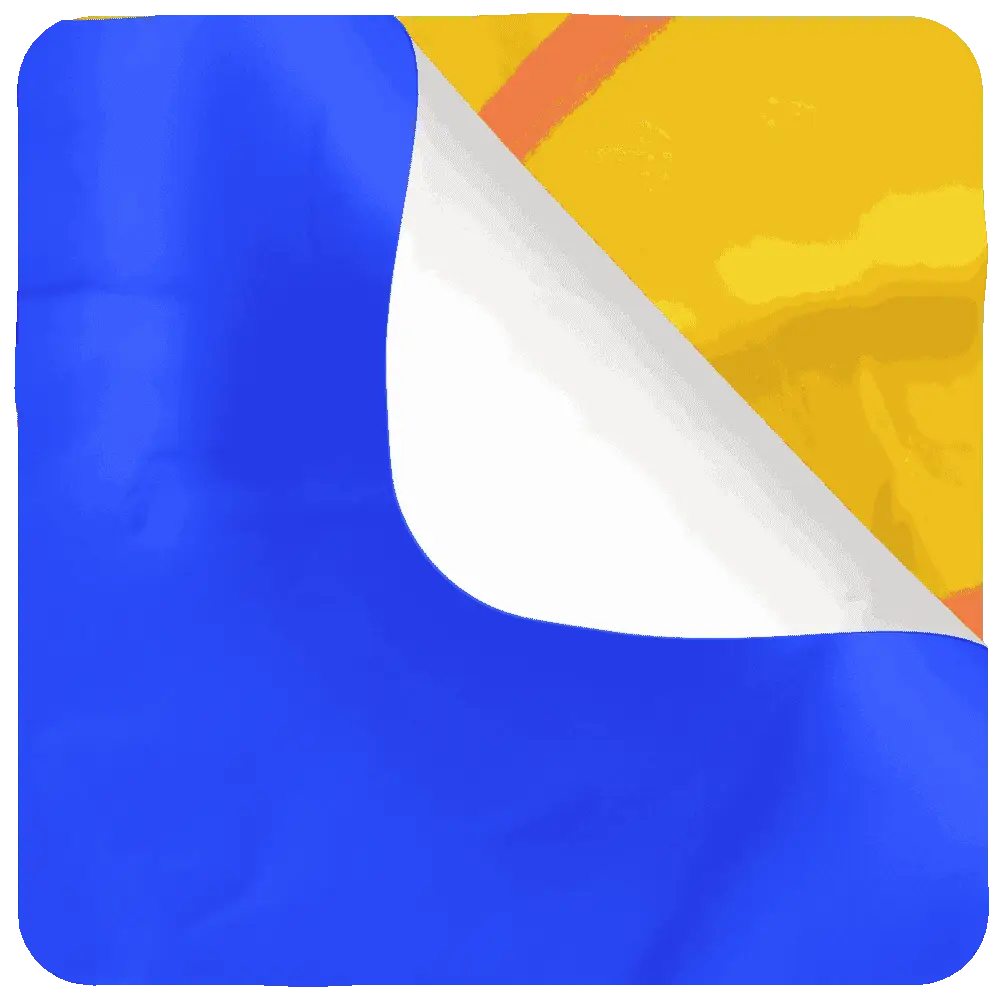
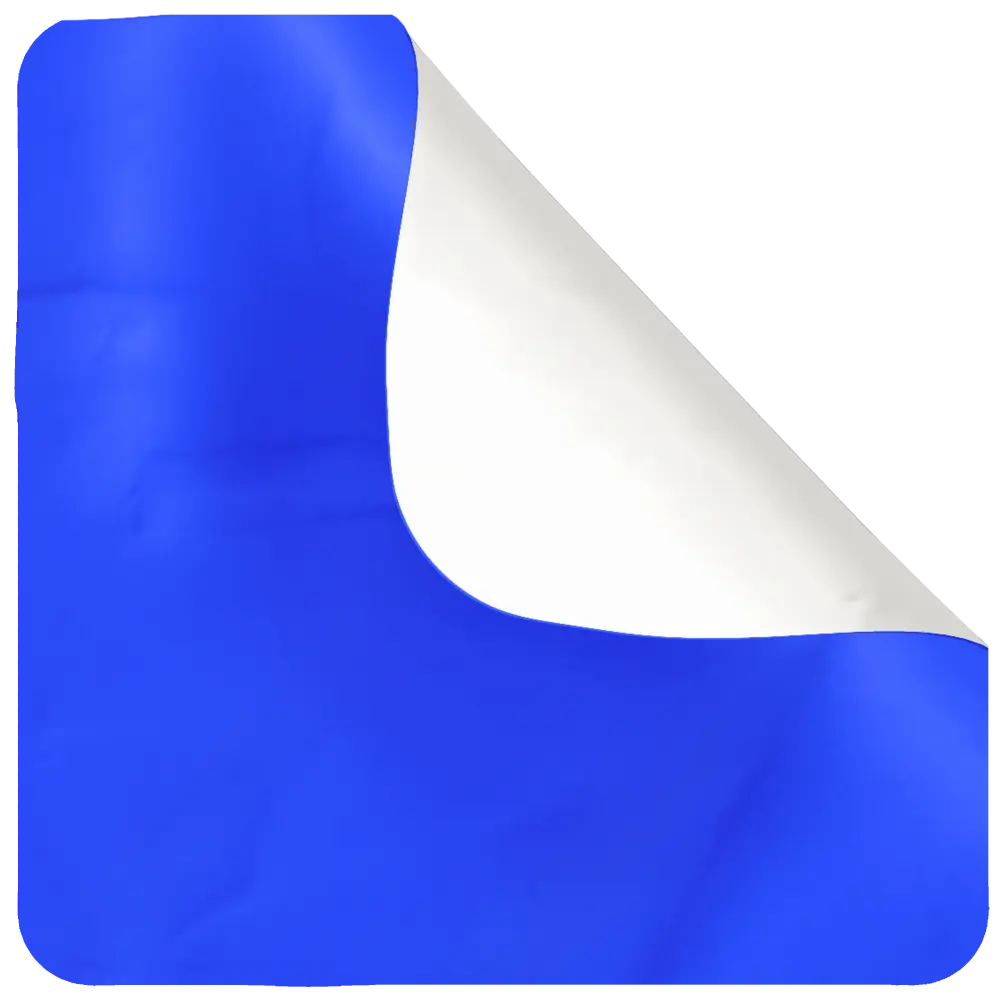
fixed navigation email to contact

Changed region(s): [[0.403, 0.0, 0.992, 0.651], [0.093, 0.0, 0.155, 0.031]]

diff --git a/src/app/main-content/skills/sticker/sticker.component.scss b/src/app/main-content/skills/sticker/sticker.component.scss
@@ -5,7 +5,7 @@
   cursor: pointer;
 }
 
-.interest-skills{
+.interest-skills {
   display: flex;
   gap: 16px;
 }
@@ -31,21 +31,23 @@
   inset: 0;
   background-size: cover;
   background-repeat: no-repeat;
-  will-change: clip-path, opacity, filter;
+  will-change: clip-path, opacity;
+  backface-visibility: hidden;
+  transform: translateZ(0); /* Hardware-Beschleunigung */
 }
 
 #sticker-1 {
-    z-index: 3;
-    transform-origin: top right;
+  z-index: 3;
+  transform-origin: top right;
 }
 
 #sticker-2 {
-    z-index: 1;
-    img {
-        width: 200px;
-        height: 200px;
-        display: block;
-    }
+  z-index: 1;
+  img {
+    width: 200px;
+    height: 200px;
+    display: block;
+  }
 }
 
 .layer-default {
@@ -54,25 +56,26 @@
   clip-path: polygon(0 0, 100% 0, 100% 0, 100% 100%, 0 100%);
 }
 
-// .layer-transition {
-//   background-image: url("/assets/img/03_stickers/01_Skills - Peel off/Transition.webp");
-//   opacity: 0;
-//   clip-path: polygon(0 0, 100% 0, 100% 0, 100% 100%, 0 100%);
-// }
+.layer-transition {
+  background-image: url("/assets/img/03_stickers/01_Skills - Peel off/Transition.webp");
+  opacity: 0;
+  clip-path: polygon(0 0, 100% 0, 100% 0, 100% 100%, 0 100%);
+  pointer-events: none;
+}
 
-.sticker-default{
-    img {
-        width: 51px;
-        height: 40px;
-    }
-    p {
-        font-size: 40px;
-        font-weight: 400;
-        font-family: 'Kalam';
-        color: $white;
-        margin: 0;
-        line-height: 40px;
-    }
+.sticker-default {
+  img {
+    width: 51px;
+    height: 40px;
+  }
+  p {
+    font-size: 40px;
+    font-weight: 400;
+    font-family: 'Kalam';
+    color: $white;
+    margin: 0;
+    line-height: 40px;
+  }
 }
 
 .sticker-final p {
@@ -86,59 +89,98 @@
 }
 
 /* --- PEEL --- */
-
-/* Default-sticker start peel */
 .sticker-container.is-peeling .layer-default {
-  animation: peelOut 200ms cubic-bezier(.2,.9,.2,1) forwards;
+  animation: peelOutDefault 400ms ease-out forwards;
 }
 
-/* done: Sticker-1 disappears */
+.sticker-container.is-peeling .layer-transition {
+  animation: peelOutTransition 400ms ease-out forwards;
+}
+
 .sticker-container.is-peeled #sticker-1 {
   pointer-events: none;
   opacity: 0;
 }
 
-/* ------------------ UNPEEL ------------------ */
-
-/* Default-sticker  comes back*/
+/* --- UNPEEL --- */
 .sticker-container.is-unpeeling .layer-default {
-  animation: peelIn 600ms cubic-bezier(.2,.9,.2,1) forwards;
+  animation: peelInDefault 400ms ease-out forwards;
 }
 
+.sticker-container.is-unpeeling .layer-transition {
+  animation: peelInTransition 400ms ease-out forwards;
+}
 
-@keyframes peelOut {
+/* Peel Out Animations */
+@keyframes peelOutDefault {
   0% {
     opacity: 1;
     clip-path: polygon(0 0, 100% 0, 100% 0, 100% 100%, 0 100%);
-    filter: none;
+  }
+  30% {
+    opacity: 0.5;
+    clip-path: polygon(0 0, 35% 0, 100% 65%, 100% 100%, 0 100%);
   }
   40% {
-    opacity: 1;
-    clip-path: polygon(0 0, 50% 0, 100% 50%, 100% 100%, 0 100%);
-    background-image: url("/assets/img/03_stickers/01_Skills - Peel off/Transition.webp");
+    opacity: 0;
+    clip-path: polygon(0 0, 60% 0, 100% 40%, 100% 100%, 0 100%);
   }
   100% {
     opacity: 0;
     clip-path: polygon(0 0, 0 0, 100% 100%, 100% 100%, 0 100%);
-    // clip-path: polygon(0 100%, 0 100%, 0 100%, 0 100%, 0 100%);
-    filter: blur(0.6px);
   }
 }
 
-@keyframes peelIn {
+@keyframes peelOutTransition {
   0% {
     opacity: 0;
-    clip-path: polygon(0 0, 0 0, 100% 100%, 100% 100%, 0 100%);
-    filter: blur(0.6px);
+    clip-path: polygon(0 0, 100% 0, 100% 0, 100% 100%, 0 100%);
   }
-  45% {
-    opacity: 0.9;
-    clip-path: polygon(0 0, 70% 0, 100% 40%, 100% 100%, 0 100%);
-    filter: blur(0.2px);
+  30% {
+    opacity: 0.5;
+    clip-path: polygon(0 0, 60% 0, 100% 40%, 100% 100%, 0 100%);
+  }
+  40% {
+    opacity: 0.2;
+    clip-path: polygon(0 0, 60% 0, 100% 40%, 100% 100%, 0 100%);
+  }
+  50% {
+    opacity: 0.1;
+    clip-path: polygon(0 0, 30% 0, 100% 70%, 100% 100%, 0 100%);
   }
   100% {
-    opacity: 1;
+    opacity: 0;
+    clip-path: polygon(0 0, 0 0, 100% 100%, 100% 100%, 0 100%);
+  }
+}
+
+/* Peel In Animations */
+@keyframes peelInDefault {
+  0% {
+    clip-path: polygon(0 0, 0 0, 100% 100%, 100% 100%, 0 100%);
+  }
+  55% {
+    clip-path: polygon(0 0, 55% 0, 100% 45%, 100% 100%, 0 100%);
+  }
+  75% {
+    clip-path: polygon(0 0, 85% 0, 100% 15%, 100% 100%, 0 100%);
+  }
+  100% {
     clip-path: polygon(0 0, 100% 0, 100% 0, 100% 100%, 0 100%);
-    filter: none;
+  }
+}
+
+@keyframes peelInTransition {
+  0% {
+    clip-path: polygon(0 0, 0 0, 100% 100%, 100% 100%, 0 100%);
+  }
+  55% {
+    clip-path: polygon(0 0, 55% 0, 100% 45%, 100% 100%, 0 100%);
+  }
+  75% {
+    clip-path: polygon(0 0, 85% 0, 100% 15%, 100% 100%, 0 100%);
+  }
+  100% {
+    clip-path: polygon(0 0, 100% 0, 100% 0, 100% 100%, 0 100%);
   }
 }

diff --git a/src/app/shared/footer/footer-links/footer-links.component.ts b/src/app/shared/footer/footer-links/footer-links.component.ts
@@ -1,6 +1,7 @@
-import { Component } from '@angular/core';
+import { Component, inject } from '@angular/core';
 import { IconRollDirective } from '../../directives/icon-roll.directive';
-import { RouterLink } from '@angular/router';
+import { Router, RouterLink } from '@angular/router';
+import { ViewportScroller } from '@angular/common';
 
 @Component({
     selector: 'app-footer-links',
@@ -13,4 +14,17 @@ import { RouterLink } from '@angular/router';
     styleUrl: './footer-links.component.scss'
 })
 export class FooterLinksComponent {
+    private router = inject(Router);
+    private viewportScroller = inject(ViewportScroller);
+
+    /**
+     * Navigate to section contact
+     */
+    navigateToContact(){
+        this.router.navigate(['/'], { fragment: 'contact' }).then(() => {
+            setTimeout(() => {
+                this.viewportScroller.scrollToAnchor('contact');
+            }, 500);
+        });
+    }
 }

diff --git a/src/app/shared/footer/footer-links/footer-links.component.scss b/src/app/shared/footer/footer-links/footer-links.component.scss
@@ -22,10 +22,13 @@
   width: max-content;
   @include flex-center;
   padding: 0 24px;
+  cursor: pointer;;
   &:hover{
     background-color: $blue;
     border-radius: 100px;
-    color: var(--font-color-hover, $white);
+    a{
+      color: var(--font-color-hover, $white);
+    }
   }
 }
 
@@ -41,17 +44,20 @@
 
 #github::before{
   left: 40%;                /* startet links*/
-  background-image: url('/assets/icons/socials/git_hub.svg')
+  background-image: url('/assets/icons/socials/git_hub.svg');
+  filter: var(--img-filter, invert(0));
 }
 
 #linkedin::before{
   left: 45%;                /* startet links*/
   background-image: url('/assets/icons/socials/linledin.svg');
+  filter: var(--img-filter, invert(0));
 }
 
 #email::before{
   left: 30%;                /* startet links*/
   background-image: url('/assets/icons/socials/email.svg');
+  filter: var(--img-filter, invert(0));
 }
 
 .link-container {

diff --git a/src/app/main-content/skills/sticker/sticker.component.ts b/src/app/main-content/skills/sticker/sticker.component.ts
@@ -25,10 +25,10 @@ togglePeel() {
 
   if (this.state === 'default') {
     this.state = 'peeling';
-    this.peelTimer = window.setTimeout(() => this.state = 'peeled', 600);
+    this.peelTimer = window.setTimeout(() => this.state = 'peeled', 400);
   } else if (this.state === 'peeled') {
     this.state = 'unpeeling';
-    this.peelTimer = window.setTimeout(() => this.state = 'default', 600);
+    this.peelTimer = window.setTimeout(() => this.state = 'default', 400);
   }
 }
 }

diff --git a/src/app/main-content/legal/privacy-policy/privacy-policy.component.html b/src/app/main-content/legal/privacy-policy/privacy-policy.component.html
@@ -15,7 +15,7 @@
           Michael Ring<br />
           Liselotte-Herrmann-Str. 26<br />
           07747 Jena<br />
-          E-Mail: <a href="mailto:max&#64;muster.de">post&#64;michaelring.eu</a>
+          E-Mail: <a href="mailto:post&#64;michaelring.eu">post&#64;michaelring.eu</a>
         </p>
       </div>
       <div>

diff --git a/src/app/main-content/hero/hero-socials/hero-socials.component.html b/src/app/main-content/hero/hero-socials/hero-socials.component.html
@@ -6,6 +6,6 @@
         <a href="https://github.com/MR-GitCode"><img src="/assets/icons/socials/git_hub.svg"></a>
     </div>
     <div>
-        <a href="mailto: post@michaelring.eu"><img src="/assets/icons/socials/email.svg"></a>
+        <a href="#contact"><img src="/assets/icons/socials/email.svg"></a>
     </div>
 </div>

diff --git a/src/app/shared/header/header.component.ts b/src/app/shared/header/header.component.ts
@@ -16,9 +16,5 @@ import { NavMenuService } from '../../services/nav-menu.service';
     styleUrl: './header.component.scss',
 })
 export class HeaderComponent {
-    navMenuService = inject(NavMenuService) 
-
-    ngOnInit() {
-  console.log('🔴 HEADER WIRD NEU GELADEN!');
-}
+    navMenuService = inject(NavMenuService);
 }

diff --git a/src/app/main-content/legal/imprint/imprint.component.html b/src/app/main-content/legal/imprint/imprint.component.html
@@ -20,7 +20,7 @@
       <div>
         <h2>{{ legalContent.imprint[languageService.lang][1].title }}</h2><br/>
         <p>
-          <a href="mailto:max&#64;muster.de">post&#64;michaelring.eu</a>
+          <a href="mailto:post&#64;michaelring.eu">post&#64;michaelring.eu</a>
         </p>
       </div>
     </div>

diff --git a/src/app/shared/footer/footer-links/footer-links.component.html b/src/app/shared/footer/footer-links/footer-links.component.html
@@ -16,6 +16,6 @@
         </div>
 
         <div id="email" class="link-bg icon-roll" appIconRoll>
-            <a href="mailto: post@michaelring.eu">Email</a>  
+            <a (click)="navigateToContact()">Email</a>  
         </div>      
 </section>

diff --git a/src/app/main-content/legal/legal.component.html b/src/app/main-content/legal/legal.component.html
@@ -4,5 +4,6 @@
 
 <app-footer 
     style = "--font-color: #0E1013;
-            --font-color-hover: #F8F9FA">
+            --font-color-hover: #F8F9FA;
+            --img-filter: invert(1)">
 </app-footer>

diff --git a/src/app/main-content/contact/form/form.component.ts b/src/app/main-content/contact/form/form.component.ts
@@ -26,7 +26,6 @@ export class FormComponent {
 
   formContent = this.contentService.getFormContent();
 
-
   http = inject(HttpClient);
   
   contactData = {
